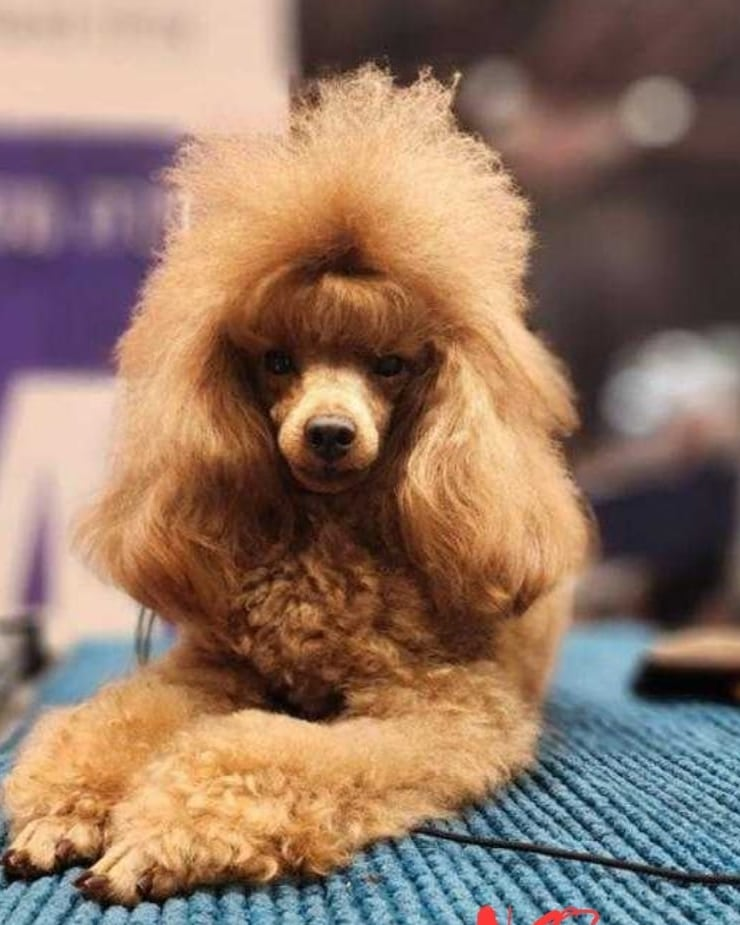
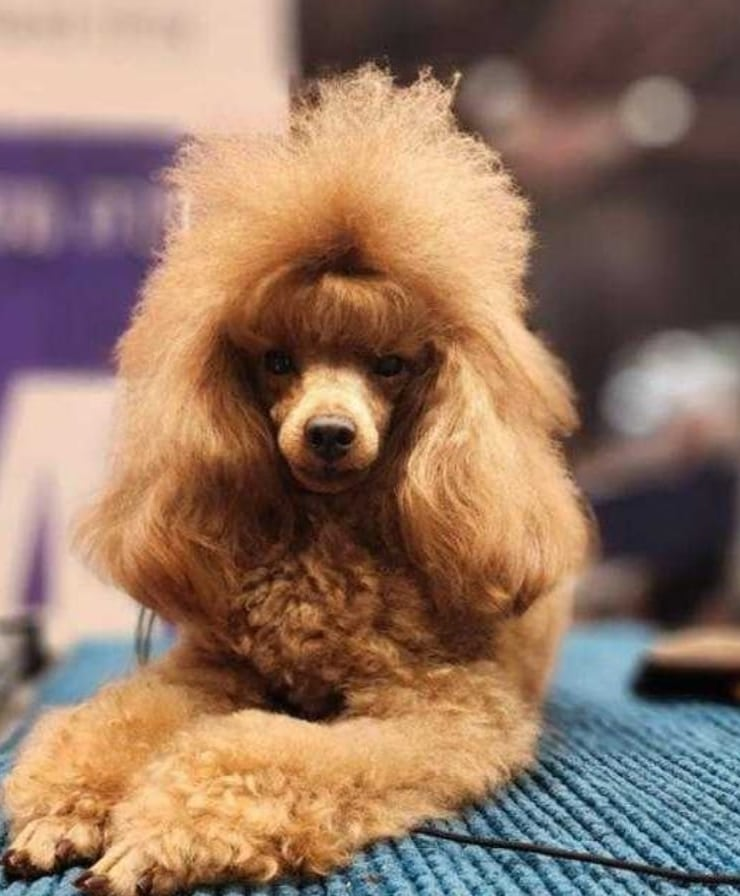
design(home): hero polish pass
- Hero photo: master re-cropped (740×896, was 740×925) so the red handwritten mark under the paws is
  gone; paws, topknot and face intact; frame aspect follows the new master on every viewport.
- Headline: "שושלות של אלופים. / גידול ביתי. / ליווי אישי." rendered as three explicit lines; Russian
  and English carry the same brand idea with their own size curves so each line stays on one row
  from 360 px up (Cyrillic/Latin run wider than Hebrew).
- Body copy ~25% shorter in all three languages: what Self Beauty is, what makes it special, the two
  services. Breed list left to the page below. No unverified claims.
- Eyebrow: editorial variant — regular weight, gold-brown, longer hairline, no label/chip feel;
  shorter Russian/English wording so it never wraps on phones.
- Header: crest emblem enlarged (52 px / 60 px) without a taller header; wordmark and nav labels
  no longer wrap at 1024; wider nav rhythm from 1280; header WhatsApp is a compact pill (44 px tap
  target kept) so the burgundy page CTAs lead.
- Fact line: city · kennel since 2014 · show dogs and champion bloodlines; each fact carries its own
  gold dot so wraps never strand a dot.
- Achievement strip at the hero's foot: rosette + "titles in our lines" link + Junior / Israeli /
  Grand-Supreme / Cyprus Champion in charcoal with gold dots; 2×2 grid on phones. Framed as titles
  in the bloodlines, never a claim about one dog or the owner.
[…]

diff --git a/src/i18n/ru.ts b/src/i18n/ru.ts
@@ -62,10 +62,15 @@ export const ru: Dictionary = {
     title: 'Self Beauty · Питомник породистых собак и груминг в Бат-Яме',
     description:
       'Self Beauty — домашний питомник йоркширских терьеров, пуделей, бишон фризе, померанских шпицев и ши-тцу с родословными и чемпионскими линиями, а также профессиональный груминг с подготовкой к выставкам. Бат-Ям.',
-    heroEyebrow: 'Питомник и профессиональный груминг · Бат-Ям',
-    heroTitle: 'Чемпионские линии. Домашнее разведение. Личное сопровождение.',
+    heroEyebrow: 'Питомник и груминг · Бат-Ям',
+    heroTitle: ['Чемпионские линии.', 'Домашнее разведение.', 'Личное сопровождение.'],
     heroLede:
-      'Self Beauty — домашний питомник породистых собак в Бат-Яме и профессиональный груминг с подготовкой к выставкам. Йоркширский терьер, пудель, бишон фризе, померанский шпиц и ши-тцу — с родословными, кровями израильских и международных чемпионов и поддержкой, которая продолжается после того, как щенок переехал к вам.',
+      'Self Beauty — домашний питомник породистых собак в Бат-Яме и профессиональный груминг с подготовкой к выставкам. Щенки с родословными и чемпионскими кровями — и личное сопровождение, которое продолжается и после переезда щенка к вам.',
+    heroFact: 'Выставки и чемпионские линии',
+    heroProof: {
+      label: 'Титулы в наших линиях',
+      titles: ['Юный чемпион', 'Чемпион Израиля', 'Гранд / Супрем чемпион', 'Чемпион Кипра'],
+    },
     heroImageAlt: 'Той-пудель рыжего окраса в выставочном груминге сидит на столе для груминга',
     promiseEyebrow: 'Что вы получаете',
     promiseTitle: 'Щенок — решение на годы. Мы относимся к этому так же.',

diff --git a/src/i18n/he.ts b/src/i18n/he.ts
@@ -69,9 +69,14 @@ export const he = {
     description:
       'Self Beauty — גידול ביתי של גורי יורקשייר טרייר, פודל, בישון פריזה, פומרניאן ושיצו עם תעודות ייחוס וקווי דם של אלופים, ומספרה מקצועית להכנה לתערוכות. בת ים.',
     heroEyebrow: 'בית גידול ומספרה מקצועית · בת ים',
-    heroTitle: 'שושלות אלופים. גידול ביתי. ליווי אישי.',
+    heroTitle: ['שושלות של אלופים.', 'גידול ביתי.', 'ליווי אישי.'],
     heroLede:
-      'Self Beauty הוא בית גידול ביתי לכלבי ייחוס בבת ים, ומספרה מקצועית לטיפוח ולהכנה לתערוכות. יורקשייר טרייר, פודל, בישון פריזה, פומרניאן ושיצו — עם תעודות ייחוס, קווי דם של אלופים ישראלים ובינלאומיים, וליווי שנמשך גם אחרי שהגור עובר אליכם.',
+      'Self Beauty הוא בית גידול ביתי לכלבי ייחוס בבת ים, ומספרה מקצועית לטיפוח ולהכנה לתערוכות. גורים עם תעודות ייחוס וקווי דם של אלופים, וליווי אישי שנמשך גם אחרי שהגור עובר אליכם.',
+    heroFact: 'כלבי תערוכות ושושלות אלופים',
+    heroProof: {
+      label: 'תארים בקווי הדם שלנו',
+      titles: ['אלוף צעיר', 'אלוף ישראל', 'אלוף על', 'אלוף קפריסין'],
+    },
     heroImageAlt: 'פודל טוי בגוון אדמדם, מטופח לתערוכה, יושב על שולחן טיפוח',
     promiseEyebrow: 'מה מקבלים מאיתנו',
     promiseTitle: 'גור הוא החלטה לשנים. ככה אנחנו ניגשים לזה.',

diff --git a/src/i18n/en.ts b/src/i18n/en.ts
@@ -62,10 +62,15 @@ export const en: Dictionary = {
     title: 'Self Beauty · Pedigree dog kennel and professional grooming in Bat Yam',
     description:
       'Self Beauty is a home-based kennel breeding Yorkshire Terriers, Poodles, Bichon Frise, Pomeranians and Shih Tzu with registered pedigrees and champion bloodlines, plus a professional grooming studio with show preparation. Bat Yam, Israel.',
-    heroEyebrow: 'Kennel and professional grooming · Bat Yam',
-    heroTitle: 'Champion bloodlines. Home breeding. Personal guidance.',
+    heroEyebrow: 'Kennel and grooming studio · Bat Yam',
+    heroTitle: ['Champion bloodlines.', 'Home-raised.', 'Personal guidance.'],
     heroLede:
-      'Self Beauty is a home-based pedigree kennel in Bat Yam and a professional grooming studio with show preparation. Yorkshire Terriers, Poodles, Bichon Frise, Pomeranians and Shih Tzu — with registered pedigrees, Israeli and international champion lines, and guidance that continues after your puppy comes home.',
+      'Self Beauty is a home-based pedigree kennel in Bat Yam and a professional grooming studio with show preparation. Puppies with registered pedigrees and champion bloodlines, and personal guidance that continues after your puppy comes home.',
+    heroFact: 'Show dogs and champion bloodlines',
+    heroProof: {
+      label: 'Titles in our lines',
+      titles: ['Junior Champion', 'Israeli Champion', 'Grand / Supreme Champion', 'Cyprus Champion'],
+    },
     heroImageAlt: 'Apricot Toy Poodle in show trim sitting on a grooming table',
     promiseEyebrow: 'What you get from us',
     promiseTitle: 'A puppy is a decision for years. We treat it that way.',
